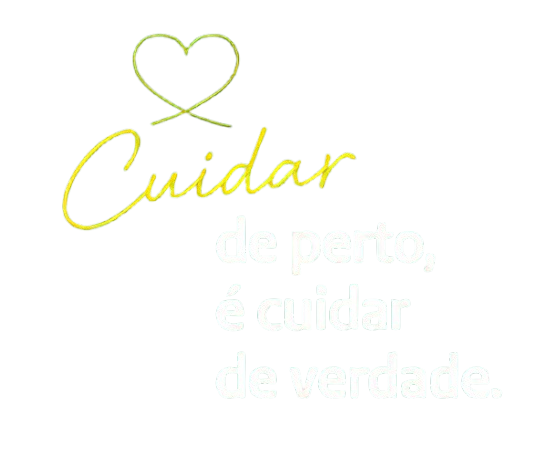
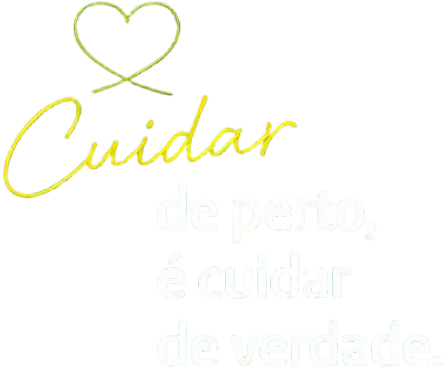
Continuando tela

Changed region(s): [[0.0, 0.0, 0.6562, 0.5351], [0.125, 0.3568, 0.1562, 0.4162], [0.5, 0.7432, 0.5312, 0.773]]

diff --git a/index.html b/index.html
@@ -30,8 +30,134 @@
     </header>
     
     <main>
-        <div>
+        <div id="busca-sistema-box">
+            <div id="busca-sistemas">
+                <img src="./imagens/icons/lupa.svg" alt="" id="lupa-icon">
+                <input type="text" name="busca-input" id="busca-input" placeholder="Busque por sistemas, ferramentas e mais...">
+            </div>
+        </div>
 
+        <div id="systems">
+            <a href="">
+                <div class="system-icon">
+                    <img src="./imagens/icons/topdesk.svg" alt="teste">
+                    <p>TopDesk</p>
+                </div>
+            </a>
+            <a href="">
+                <div class="system-icon">
+                    <img src="./imagens/icons/topdesk.svg" alt="teste">
+                    <p>SGU Card</p>
+                </div>
+            </a>
+            <a href="">
+                <div class="system-icon">
+                    <img src="./imagens/icons/topdesk.svg" alt="teste">
+                    <p>Autorizador</p>
+                </div>
+            </a>
+            <a href="">
+                <div class="system-icon">
+                    <img src="./imagens/icons/topdesk.svg" alt="teste">
+                    <p>SGU Web</p>
+                </div>
+            </a>
+            <a href="">
+                <div class="system-icon">
+                    <img src="./imagens/icons/topdesk.svg" alt="teste">
+                    <p>GIU</p>
+                </div>
+            </a>
+            <a href="">
+                <div class="system-icon">
+                    <img src="./imagens/icons/topdesk.svg" alt="teste">
+                    <p>Blip</p>
+                </div>
+            </a>
+            <a href="">
+                <div class="system-icon">
+                    <img src="./imagens/icons/topdesk.svg" alt="teste">
+                    <p>Senior</p>
+                </div>
+            </a>
+            <a href="">
+                <div class="system-icon">
+                    <img src="./imagens/icons/topdesk.svg" alt="teste">
+                    <p>EPA</p>
+                </div>
+            </a>
+            <a href="">
+                <div class="system-icon">
+                    <img src="./imagens/icons/topdesk.svg" alt="teste">
+                    <p>Join RH</p>
+                </div>
+            </a>
+            <a href="">
+                <div class="system-icon">
+                    <img src="./imagens/icons/topdesk.svg" alt="teste">
+                    <p>Intranet</p>
+                </div>
+            </a>
+            <a href="">
+                <div class="system-icon">
+                    <img src="./imagens/icons/topdesk.svg" alt="teste">
+                    <p>Ramais</p>
+                </div>
+            </a>
+            <a href="">
+                <div class="system-icon">
+                    <img src="./imagens/icons/topdesk.svg" alt="teste">
+                    <p>Outlook</p>
+                </div>
+            </a>
+            <a href="">
+                <div class="system-icon">
+                    <img src="./imagens/icons/topdesk.svg" alt="teste">
+                    <p>One Drive</p>
+                </div>
+            </a>
+            <a href="">
+                <div class="system-icon">
+                    <img src="./imagens/icons/topdesk.svg" alt="teste">
+                    <p>ZapSign</p>
+                </div>
+            </a>
+            <a href="">
+                <div class="system-icon">
+                    <img src="./imagens/icons/topdesk.svg" alt="teste">
+                    <p>Site Unimed</p>
+                </div>
+            </a>
+            <a href="">
+                <div class="system-icon">
+                    <img src="./imagens/icons/topdesk.svg" alt="teste">
+                    <p>MV Soul</p>
+                </div>
+            </a>
+            <a href="">
+                <div class="system-icon">
+                    <img src="./imagens/icons/topdesk.svg" alt="teste">
+                    <p>MV GE</p>
+                </div>
+            </a>
+            <a href="">
+                <div class="system-icon">
+                    <img src="./imagens/icons/topdesk.svg" alt="teste">
+                    <p>GW</p>
+                </div>
+            </a>
+            <a href="">
+                <div class="system-icon">
+                    <img src="./imagens/icons/topdesk.svg" alt="teste">
+                    <p>GED Prime</p>
+                </div>
+            </a>
+            <a href="">
+                <div class="system-icon">
+                    <img src="./imagens/icons/topdesk.svg" alt="teste">
+                    <p>Pirâmide Web</p>
+                </div>
+            </a>    
         </div>
     </main>
 

diff --git a/style.css b/style.css
@@ -1,3 +1,12 @@
+:root{
+    --verde-claro: rgb(193, 219, 110);
+    --verde-escuro: rgb(1, 95, 65);
+    --branco: rgb(249, 251, 250);
+    --cinza-fonte: rgb(29, 56, 61);
+    --fundo-icon: rgb(235, 243, 230);
+    --borda: rgba(0, 0, 0, 0.2);
+}
+
 *{
     margin: 0;
     padding: 0;
@@ -11,50 +20,119 @@ header{
 
 #top-bar{
     text-align: center;
-    padding: 1.5rem;
+    padding: 1rem;
     border-bottom: solid 1px rgba(255, 255, 255, 0.2);
 }
 
 #top-bar img{
-    width: 10rem;
+    width: 9rem;
 }
 
 #boas-vindas{
     padding-top: 1.5rem;
-    padding-left: 3rem;
+    padding-left: 4.5rem;
 }
 
 #boas-vindas > div,
 #boas-vindas > img {
     display: inline-block;
-    vertical-align: middle;
+    vertical-align: top;
 }
 
 #boas-vindas h1{
-    color: white;
+    color: var(--branco);
     font-weight: 400;
     font-size: 2rem;
     line-height: 1.3;
 }
 
 #boas-vindas h1 span{
-    color: rgb(193, 219, 110);
+    color: var(--verde-claro);
     font-weight: 700;
     font-size: 3rem;
 }
 
 #boas-vindas p{
-    color: white;
-    border-left: 3px solid rgb(157, 186, 78);
+    color: var(--branco);
+    border-left: 3px solid var(--verde-claro);
     padding-left: 1rem;
 }
 
 #figure{
-    width: 30rem;
-    padding-left: 35rem;
+    width: 35rem;
+    padding-left: 30rem;
 }
 
 #cuidar-image{
-    height: 12rem;
-    padding: 3rem 0 0 6rem;
+    height: 10rem;
+    padding: 2rem 0 0 7rem;
+}
+
+main{
+    position: relative;
+    top: -1.5rem;
+    margin: 0 3rem;
+    border: 1px solid var(--borda);
+    border-radius: 1rem;
+    background-color: var(--branco);
+}
+
+#busca-sistema-box{
+    display: flex;
+    justify-content: center;
+    align-items: center;
+    margin: 1rem 0;
+}
+
+#busca-sistemas{
+    padding: 0.5rem 1rem;
+    border: 1px solid var(--borda);
+    border-radius: 3rem;
+    box-shadow: 0 2px 5px var(--borda);
+    display: flex;
+    align-items: center;
+}
+
+#lupa-icon{
+    width: 1rem;
+    margin-right: 0.5rem;
+}
+
+#busca-input{
+    border: none;
+    outline: none;
+    width: 25rem;
+}
+
+#systems{
+    display: grid;
+    grid-template-columns: 11rem 11rem 11rem 11rem 11rem 11rem 11rem;
+    gap: 1.5rem 3rem;
+    justify-content: center;
+}
+
+a{
+    text-decoration: none;
+    color: var(--cinza-fonte);
+}
+
+a:visited{
+    color: var(--cinza-fonte);
+}
+
+.system-icon{
+    font-size: 0.75rem;
+    font-weight: 600;
+    text-align: center;
+    border: 1px solid var(--borda);
+    border-radius: 0.5rem;
+    box-shadow: 0 2px 5px var(--borda);
+    padding: 0.8rem 0;
+}
+
+.system-icon img{
+    height: 2rem;
+    background-color: var(--fundo-icon);
+    padding: 1rem;
+    border-radius: 1rem;
 }
